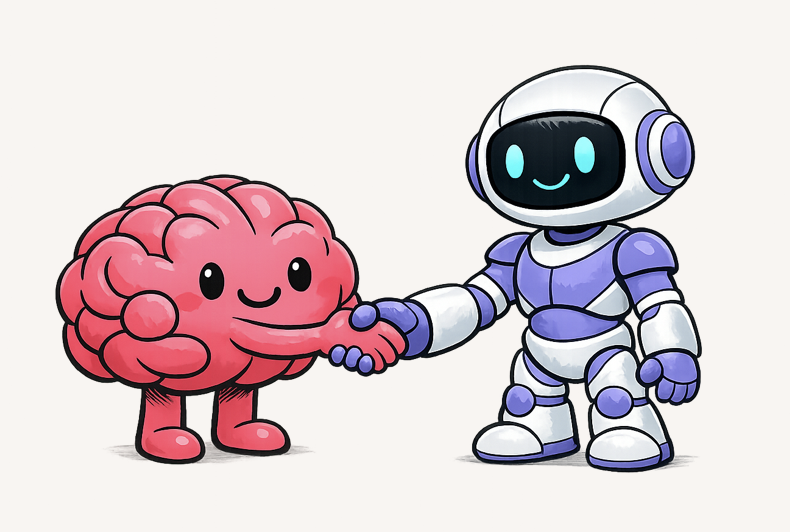
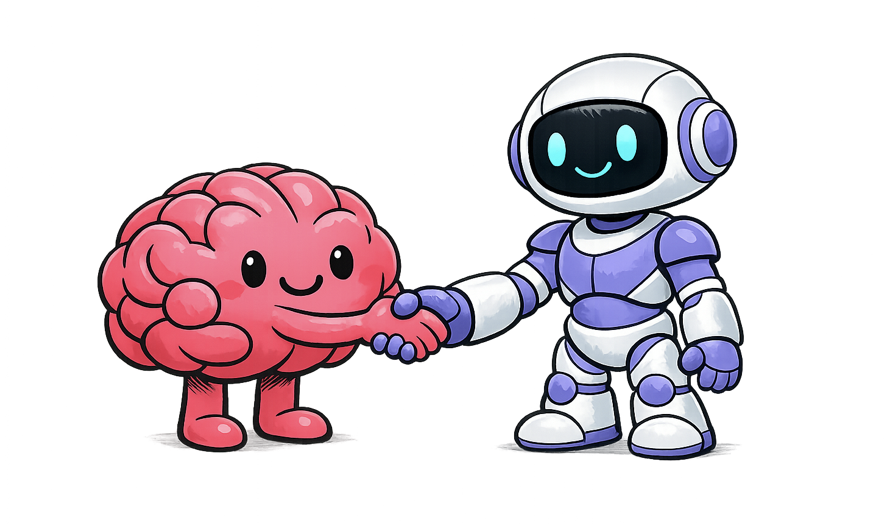
Hero: replace title illustration with white-background asset
Made-with: Cursor

Changed region(s): [[0.0608, 0.0916, 0.9114, 0.8855]]

diff --git a/app/page.tsx b/app/page.tsx
@@ -16,8 +16,8 @@ export default function Home() {
           <div className="mb-8 flex justify-center px-2 sm:justify-start">
             <img
               src="/hero-title.png"
-              width={790}
-              height={532}
+              width={884}
+              height={524}
               alt="Illustration of a friendly brain and robot shaking hands, representing human and AI collaboration"
               className="h-auto w-full max-w-md rounded-xl object-contain"
               decoding="async"
